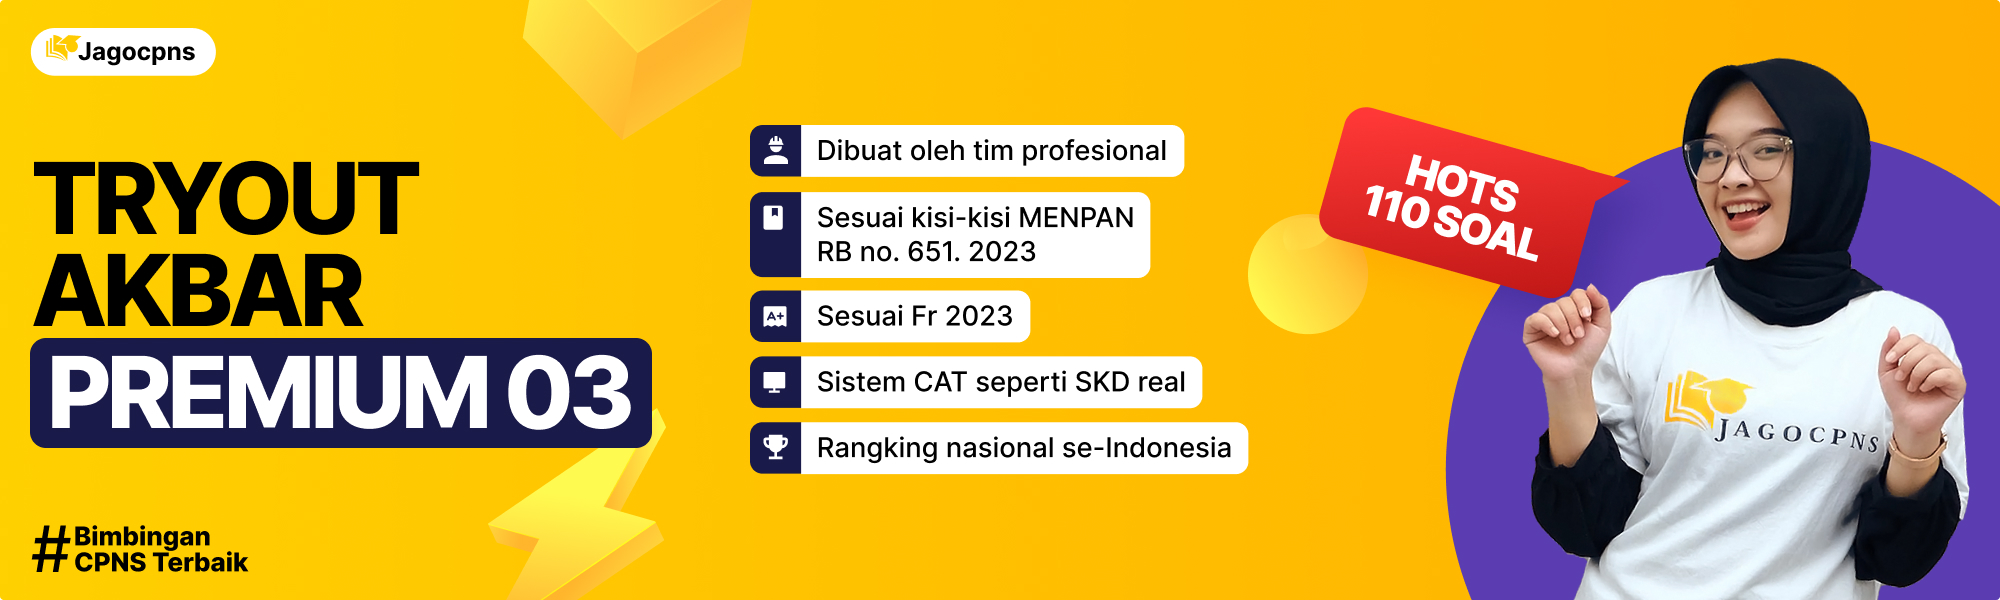
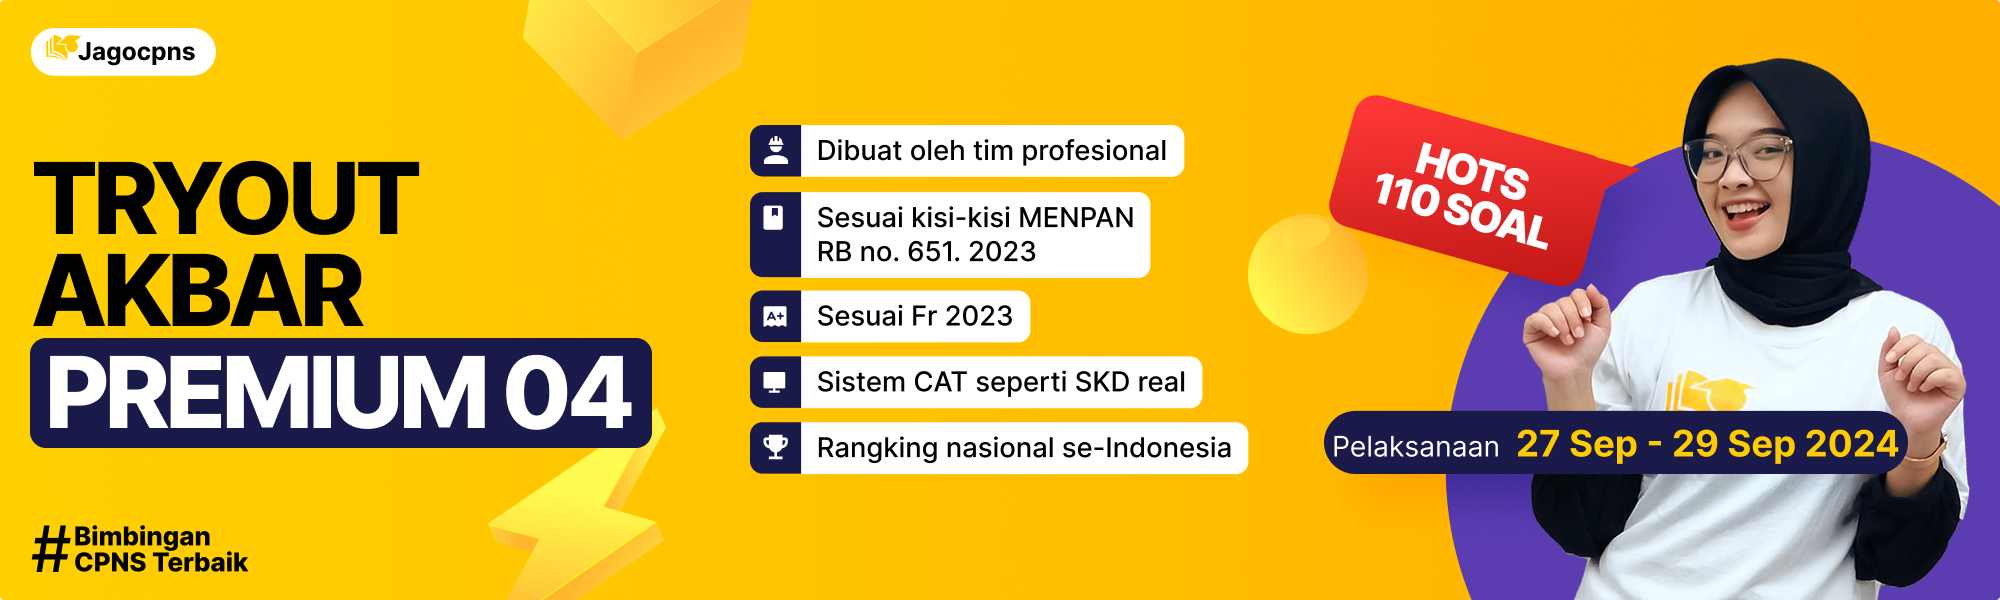
fix:captions

Changed region(s): [[0.651, 0.66, 0.961, 0.81], [0.651, 0.15, 0.837, 0.51], [0.031, 0.6, 0.31, 0.72]]

diff --git a/client/src/components/landing/PopupModal.jsx b/client/src/components/landing/PopupModal.jsx
@@ -1,24 +1,16 @@
 import { Button, Modal } from 'flowbite-react';
-import { useEffect, useState } from 'react';
+import { useState } from 'react';
 import popup from '../../assets/images/popup.jpg';
-import useAuth from '../../stores/useAuth';
 import { useNavigate } from 'react-router-dom';
 
 const PopupModal = () => {
   const navigate = useNavigate();
   const [openModal, setOpenModal] = useState(false);
-  const { token } = useAuth();
-
-  useEffect(() => {
-    if (!token) {
-      setOpenModal(true);
-    }
-  }, [token]);
 
   return (
     <>
       <Modal size={'xl'} show={openModal} onClose={() => setOpenModal(false)}>
-        <Modal.Header>Tryout Premium 03</Modal.Header>
+        <Modal.Header>Tryout Premium 04</Modal.Header>
         <Modal.Body>
           <div className='space-y-6 flex justify-center'>
             <img src={popup} alt='' />

diff --git a/client/src/components/app/Dashboard/NewsSection.jsx b/client/src/components/app/Dashboard/NewsSection.jsx
@@ -81,8 +81,8 @@ const NewsSection = () => {
           <ul className='overflow-y-auto max-h-72'>
             <li className='my-2 mx-4 p-2 rounded-lg border'>
               <NewsList
-                title={`Tryout Premium 03`}
-                desc={`Tryout Premium 03 Dilaksanakan Pada Tanggal 20-22 September 2024 /enter
+                title={`Tryout Premium 04`}
+                desc={`Tryout Premium 04 Dilaksanakan Pada Tanggal 27-29 September 2024 /enter
 Tata Cara: /enter
 1. Isi Saldo Terlebih Dahulu Di Menu Topup Saldo /enter
 2. Beli Tryout Di Menu Beli Tryout /enter

diff --git a/client/src/pages/TryoutReview.jsx b/client/src/pages/TryoutReview.jsx
@@ -275,7 +275,7 @@ const TryoutReview = () => {
                               >
                                 {choice.key}
                               </div>
-                              <div className='flex flex-col'>
+                              <div className='flex flex-col text-start'>
                                 {choice.text && (
                                   <SplitText text={choice.text} />
                                 )}
